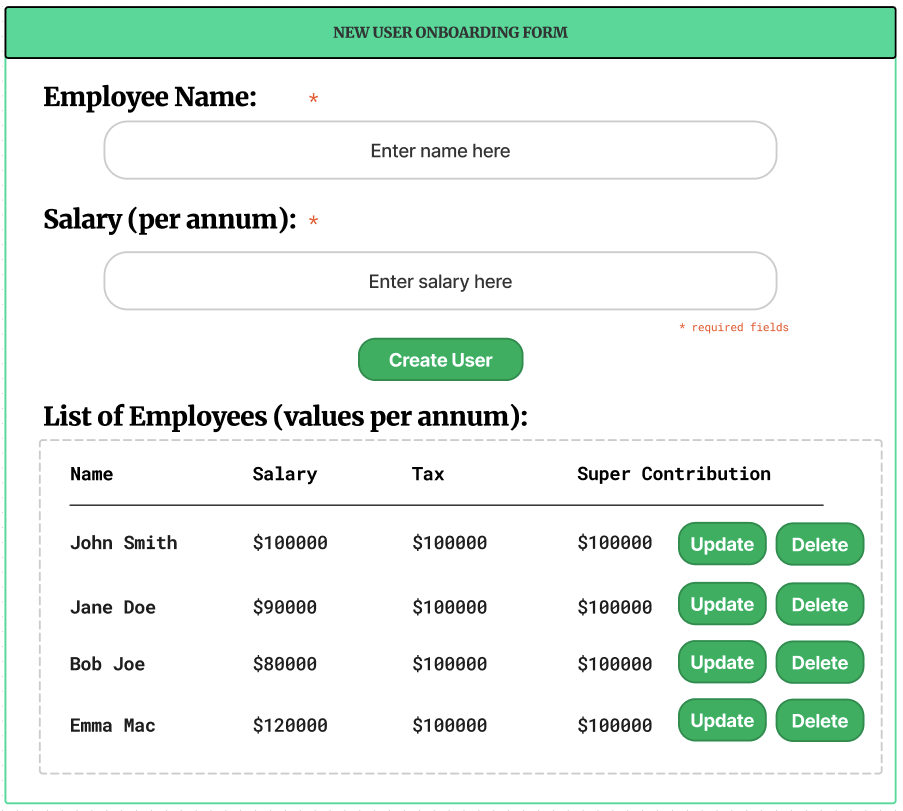
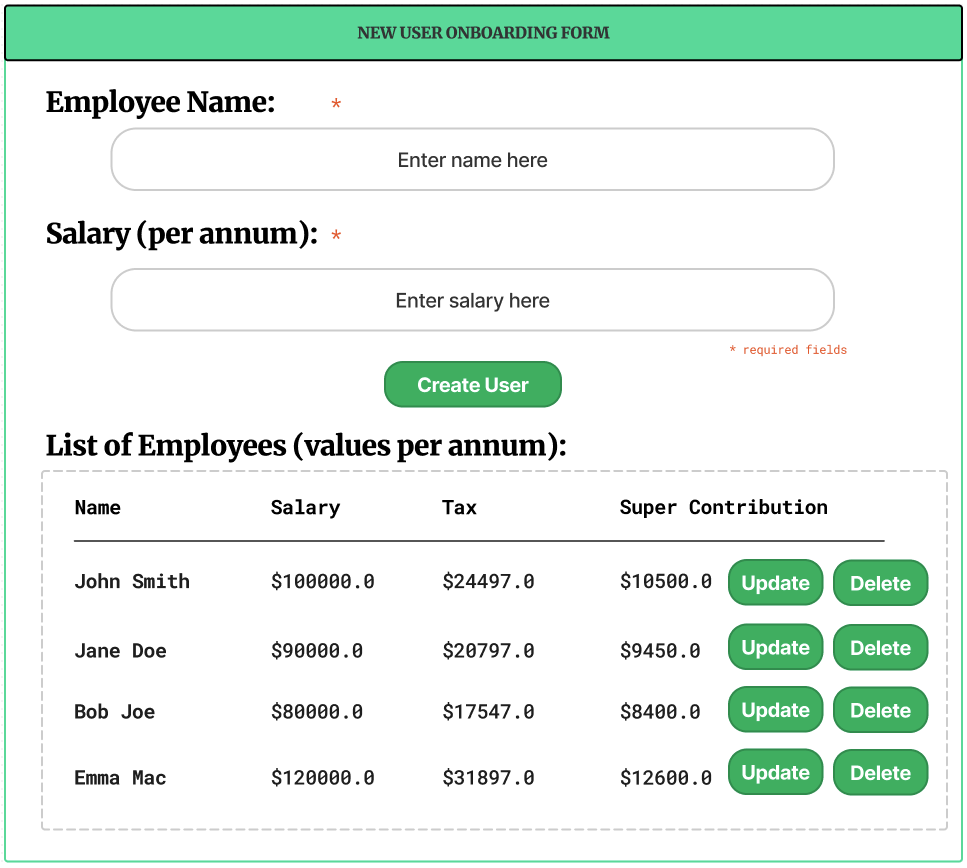
Updates to readme with images.

diff --git a/README.md b/README.md
@@ -39,6 +39,11 @@ their details displayed accordingly: 'name', 'salary', 'taxable income', 'supera
 
 ![form_design](resources/form_design.png)
 
+The design choices made reflect the needs of the bank - a simple onboarding form that will allow the user to easily
+provide the required fields: a name and salary, and be presented with the income calculations for the user.
+The form is a single-page-app which can represent data stored against an employee visually in a table once the user has
+been created. Future development may allow for storing employees to a database for a RESTful API to serve requests to
+provide data.
 
 ## Project Structure
 
@@ -59,12 +64,31 @@ income-calculator
     └── test
         └── EmployeeServiceTest.java
 ```
+
 ## Getting Started
 
-- Prerequisites
-- Installation
+### Prerequisites
+
+* Java 8 or later
+* Maven 3.5+
 
 ## Usage
+
+1. Download the project by downloading the project or cloning it using Git:
+
+```
+git clone https://github.com/aidenwaring/Income_Calculator.git
+```
+
+2. Execute the program through an IDE such as IntelliJ IDEA and running Main.java.
+
+3. Run `mvn test` to run the test suite of the application.
+
+4. Running the app will open a terminal in which the program will prompt the user to enter in a name for the user, and
+   once hitting enter again prompting to enter a salary value. Once enter has been hit, the result will be displayed
+   like so:
+
+![Terminal Result](resources/terminal.png)
 
 ## Testing
 
@@ -78,12 +102,14 @@ Tax bracket calculation is based off the provided criteria below:
 
 - IntelliJ Static Code Analysis
 - Unit tests written with JUnit 5
-- 
+-
 
 ## Future Developement Beyond MVP
 
-Given the time restrictions to complete this task, items beyond creating an MVP for the client remain and may still be worked on in the future.
+Given the time restrictions to complete this task, items beyond creating an MVP for the client remain and may still be
+worked on in the future.
 Several improvements and future features have been identified and listed below:
+
 - Code Coverage Reporting
 - Additional Edge Case Tests
 - Develop Front-End Component
